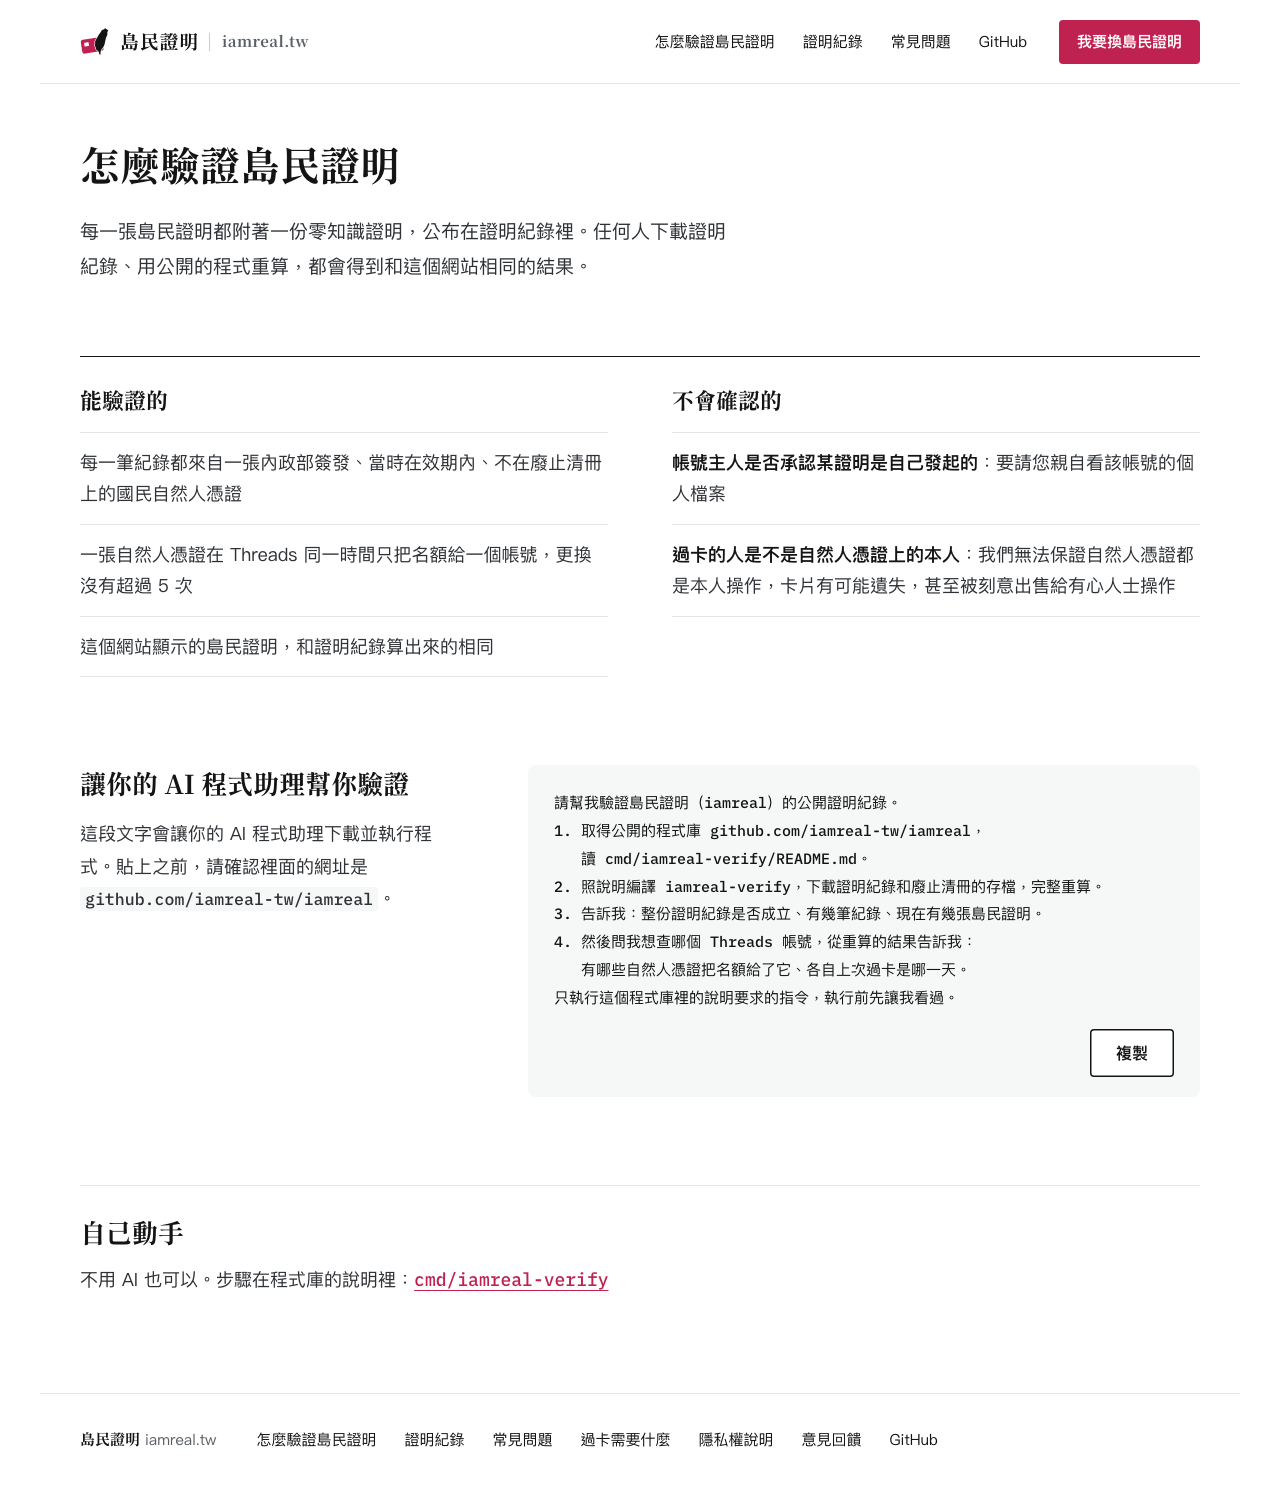
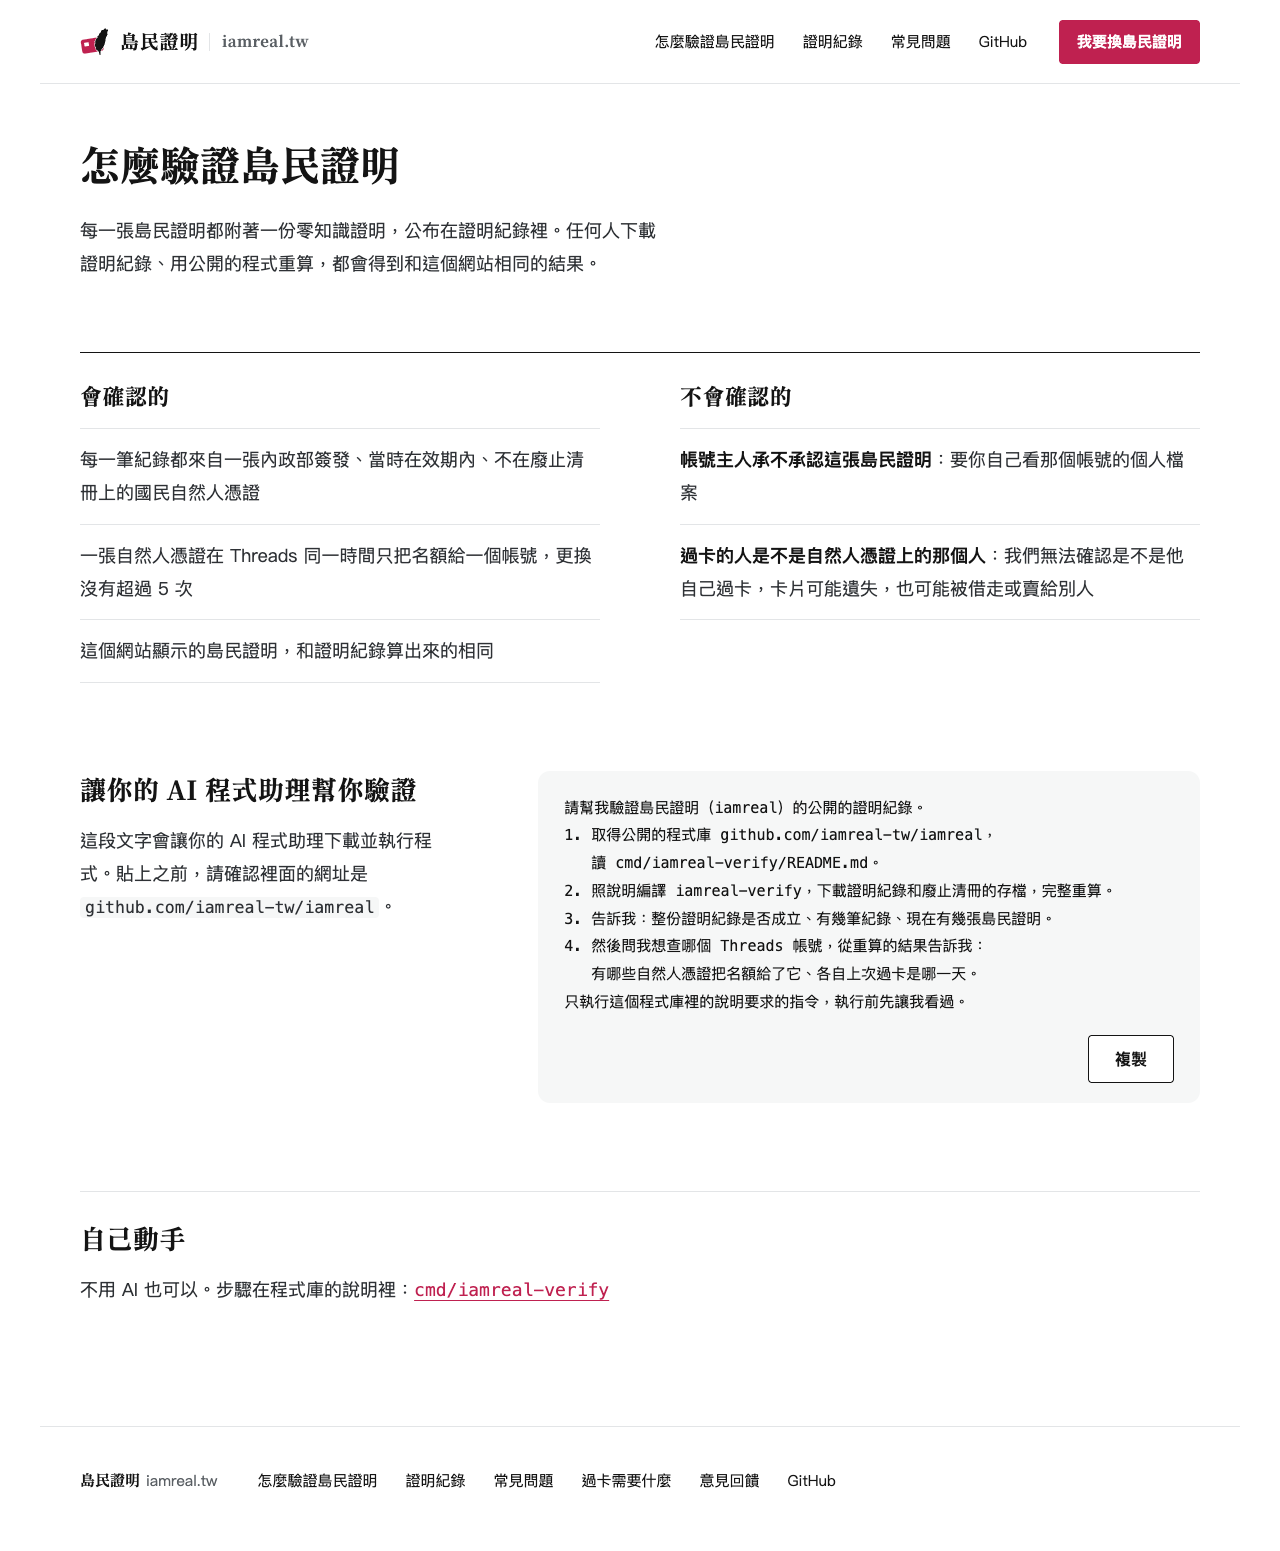
怎麼驗證島民證明照定稿：「會確認的」「不會確認的」並排，不會確認的兩條改寫（#288）
- verify.md：「不會確認的」兩條改成「帳號主人承不承認這張島民證明：要你自己看那個帳號的個人檔案」「過卡的人是不是自然人憑證上的那個人：我們無法確認是不是他自己過卡，卡片可能遺失，也可能被借走或賣給別人」；寫明寬的畫面上兩份清單並排、冒號前面是粗體。提示詞一個字都不改
- /verify 照 design/screens/ 排：兩份清單在一條墨色線下並排；AI 程式助理那一段在左、提示詞在右；複製是次要按鈕（墨色框）；自己動手在細線下。手機上全部一欄、複製按鈕撐滿寬度
- 樣式都限在 body.verify：掛上去那一頁的複製按鈕不變
- pages.css 的 SHA-256 跟著改；字型子集重跑後沒有變（新句子的字都已經在子集裡）
- verify-desktop.png、verify-phone.png 換成實際頁面的截圖

diff --git a/worker/site/pages.css b/worker/site/pages.css
@@ -5,7 +5,8 @@
  * bar and the foot are as wide as the site (--max-width); the content of
  * each page is still one column, at most 560 wide, until that page is laid
  * out after design/DESIGN.md (so far: the home page, what a card proof
- * needs, the FAQ, the page of a card and the page of an account).
+ * needs, the FAQ, how to verify, the page of a card and the page of an
+ * account).
  *
  * The values of :root are design/tokens.json's, each the one of the same
  * name (test/style-sheet.test.ts): what each colour means, and where it is
@@ -2063,15 +2064,102 @@ ul.dots li {
 
 /* How to verify (verify.md) ------------------------------------------------------------- */
 
-.prompt {
-  margin: 0 0 10px;
-  padding: 14px 16px;
+/* Laid out after design/DESIGN.md: what it checks and what it does not side by side under a line of ink; the
+   AI assistant's paragraph on the left of the prompt; doing it yourself under a thin line. */
+body.verify .title {
+  font-size: var(--size-h2);
+  line-height: var(--leading-h2);
+  margin: 56px 0 20px;
+}
+
+body.verify .intro p {
+  max-width: var(--measure);
+}
+
+body.verify .checks {
+  display: grid;
+  grid-template-columns: minmax(0, 1fr) minmax(0, 1fr);
+  gap: var(--column-gap);
+  margin-top: 72px;
+  padding-top: 28px;
+  border-top: 1px solid var(--ink);
+}
+
+body.verify .checks h2 {
+  font-family: var(--font-display);
+  font-weight: var(--weight-heading);
+  font-size: var(--size-lead);
+  line-height: var(--leading-h3);
+  margin: 0 0 14px;
+}
+
+body.verify .checks ul {
+  margin: 0;
+  padding: 0;
+  list-style: none;
+}
+
+body.verify .checks li {
+  padding: 14px 0;
+  border-bottom: 1px solid var(--line);
+}
+
+body.verify .checks li:first-child {
+  border-top: 1px solid var(--line);
+}
+
+body.verify .checks b {
+  color: var(--ink);
+}
+
+body.verify .assistant {
+  display: grid;
+  grid-template-columns: minmax(0, 4fr) minmax(0, 7fr);
+  gap: var(--column-gap);
+  align-items: start;
+  margin-top: 88px;
+}
+
+body.verify .assistant h2,
+body.verify .yourself h2 {
+  font-family: var(--font-display);
+  font-weight: var(--weight-heading);
+  font-size: var(--size-h3);
+  line-height: var(--leading-h3);
+  margin: 0 0 14px;
+}
+
+body.verify code,
+body.verify .yourself a {
+  font-family: var(--font-mono);
+}
+
+body.verify .ask code {
+  padding: 1px 5px;
+  border-radius: var(--radius);
   background: var(--soft);
-  border: 1px solid var(--line);
+  font-size: 0.92em;
+}
+
+/* The prompt: only shown here (design/DESIGN.md, --soft), no frame. */
+body.verify .prompt-box {
+  padding: 24px 26px 20px;
   border-radius: var(--radius-panel);
-  font: 14px/1.7 var(--font-mono);
+  background: var(--soft);
+}
+
+body.verify .prompt {
+  margin: 0;
+  color: var(--ink);
+  font: 15px/1.85 var(--font-mono);
   white-space: pre-wrap;
   overflow-wrap: anywhere;
+}
+
+body.verify .prompt-box .bar {
+  display: flex;
+  justify-content: flex-end;
+  margin: 18px 0 0;
 }
 
 /* A copy button (/copy.js shows it): outlined, the raspberry red. */
@@ -2084,6 +2172,29 @@ button.copy {
   color: var(--you);
   font: 700 15px var(--font-body);
   cursor: pointer;
+}
+
+/* The prompt's: a secondary button, an ink frame on white (design/DESIGN.md, 元件). */
+body.verify button.copy {
+  min-height: 48px;
+  padding: 0 26px;
+  border-color: var(--ink);
+  color: var(--ink);
+  font-size: 16px;
+}
+
+body.verify button.copy:hover {
+  background: var(--soft);
+}
+
+body.verify .yourself {
+  margin-top: 88px;
+  padding-top: 28px;
+  border-top: 1px solid var(--line);
+}
+
+body.verify .yourself p {
+  margin: 0;
 }
 
 /* Hanging a proof on a profile (hang.md) ------------------------------------------------- */
@@ -2137,6 +2248,7 @@ button.copy {
 
 /* Laid out after design/DESIGN.md: as wide as the site, its edges the navigation bar's (.top .bar); what to have and the four steps side by side, the usual troubles under them. */
 body.prepare main,
+body.verify main,
 body.proof main,
 body.account main,
 body.proof-missing main,
@@ -2614,11 +2726,55 @@ body.account-not-a-name .title {
   }
 
   body.prepare main,
+  body.verify main,
   body.proof main,
   body.account main,
   body.proof-missing main,
   body.account-not-a-name main {
     padding: 0 var(--gutter-phone) 56px;
+  }
+
+  /* How to verify: everything one column; the copy button as wide as the prompt. */
+  body.verify .title {
+    font-size: var(--size-h2-phone);
+    margin-top: 28px;
+  }
+
+  body.verify .checks {
+    grid-template-columns: minmax(0, 1fr);
+    gap: 40px;
+    margin-top: 48px;
+  }
+
+  body.verify .checks h2 {
+    font-size: var(--size-lead-phone);
+  }
+
+  body.verify .assistant {
+    grid-template-columns: minmax(0, 1fr);
+    gap: 20px;
+    margin-top: 56px;
+  }
+
+  body.verify .assistant h2,
+  body.verify .yourself h2 {
+    font-size: var(--size-h3-phone);
+  }
+
+  body.verify .prompt-box {
+    padding: 18px 16px 16px;
+  }
+
+  body.verify .prompt {
+    font-size: 14px;
+  }
+
+  body.verify button.copy {
+    width: 100%;
+  }
+
+  body.verify .yourself {
+    margin-top: 56px;
   }
 
   body.prepare .title {

diff --git a/worker/src/pages/verify.ts b/worker/src/pages/verify.ts
@@ -1,8 +1,8 @@
-// How to verify: design/copy/verify.md. The markup is the Go backend's
-// (e159ab9:server/pages/templates/verify.html). The prompt is written exactly as
-// verify.md has it, in a <pre> that can be selected; the copy buttons'
-// script (/copy.js) shows the button that copies it, hidden without the
-// script.
+// How to verify: design/copy/verify.md. What it checks and what it does
+// not, side by side on a wide screen; the AI assistant's paragraph beside
+// the prompt. The prompt is written exactly as verify.md has it, in a <pre>
+// that can be selected; the copy buttons' script (/copy.js) shows the
+// button that copies it, hidden without the script.
 import { html } from "./html.ts";
 import type { Document } from "./layout.ts";
 
@@ -12,21 +12,28 @@ export function verifyPage(): Document {
 <p>每一張島民證明都附著一份零知識證明，公布在證明紀錄裡。任何人下載證明紀錄、用公開的程式重算，都會得到和這個網站相同的結果。</p>
 </section>
 <section class="checks">
+<div class="will">
 <h2>會確認的</h2>
-<ul class="dots">
+<ul>
 <li>每一筆紀錄都來自一張內政部簽發、當時在效期內、不在廢止清冊上的國民自然人憑證</li>
 <li>一張自然人憑證在 Threads 同一時間只把名額給一個帳號，更換沒有超過 5 次</li>
 <li>這個網站顯示的島民證明，和證明紀錄算出來的相同</li>
 </ul>
+</div>
+<div class="wont">
 <h2>不會確認的</h2>
-<ul class="dots">
-<li>帳號主人承不承認：要看那個帳號的個人檔案</li>
-<li>過卡的人是不是自然人憑證上的那個人</li>
+<ul>
+<li><b>帳號主人承不承認這張島民證明</b>：要你自己看那個帳號的個人檔案</li>
+<li><b>過卡的人是不是自然人憑證上的那個人</b>：我們無法確認是不是他自己過卡，卡片可能遺失，也可能被借走或賣給別人</li>
 </ul>
+</div>
 </section>
 <section class="assistant">
+<div class="ask">
 <h2>讓你的 AI 程式助理幫你驗證</h2>
-<p>這段文字會讓你的 AI 程式助理下載並執行程式。貼上之前，請確認裡面的網址是 github.com/iamreal-tw/iamreal。</p>
+<p>這段文字會讓你的 AI 程式助理下載並執行程式。貼上之前，請確認裡面的網址是 <code>github.com/iamreal-tw/iamreal</code>。</p>
+</div>
+<div class="prompt-box">
 <pre class="prompt" id="prompt">請幫我驗證島民證明（iamreal）的公開的證明紀錄。
 1. 取得公開的程式庫 github.com/iamreal-tw/iamreal，
    讀 cmd/iamreal-verify/README.md。
@@ -35,7 +42,8 @@ export function verifyPage(): Document {
 4. 然後問我想查哪個 Threads 帳號，從重算的結果告訴我：
    有哪些自然人憑證把名額給了它、各自上次過卡是哪一天。
 只執行這個程式庫裡的說明要求的指令，執行前先讓我看過。</pre>
-<p><button type="button" class="copy" data-copy="prompt" data-copied="已複製" hidden>複製</button></p>
+<p class="bar"><button type="button" class="copy" data-copy="prompt" data-copied="已複製" hidden>複製</button></p>
+</div>
 </section>
 <section class="yourself">
 <h2>自己動手</h2>

diff --git a/worker/scripts/site-files.ts b/worker/scripts/site-files.ts
@@ -64,7 +64,7 @@ export const SITE_FILES: readonly string[] = ["_headers", "_redirects", "copy.js
  * written here: a deploy uploads the style sheet that was reviewed. Change
  * it with the file (`shasum -a 256 site/pages.css`).
  */
[2 lines of base64/hex data omitted]
 
 /**
  * The SHA-256 of site/copy.js, the copy buttons' script, the other file of

diff --git a/design/copy/verify.md b/design/copy/verify.md
@@ -26,11 +26,11 @@
 · 這個網站顯示的島民證明，和證明紀錄算出來的相同
 
 不會確認的
-· 帳號主人承不承認：要看那個帳號的個人檔案
-· 過卡的人是不是自然人憑證上的那個人
+· 帳號主人承不承認這張島民證明：要你自己看那個帳號的個人檔案
+· 過卡的人是不是自然人憑證上的那個人：我們無法確認是不是他自己過卡，卡片可能遺失，也可能被借走或賣給別人
 ```
 
-兩份清單，各有一個小標。
+兩份清單，各有一個小標，寬的畫面上左右並排。「不會確認的」每一條，冒號前面是粗體。
 
 「不會確認的」一定要有：重驗確認的是證明和紀錄規則，不確認帳號主人承不承認（ADR-0003），也不確認簽章的人是不是自然人憑證上的那個人。
 

diff --git a/design/screens/README.md b/design/screens/README.md
@@ -36,7 +36,7 @@
 | `hang-proof-desktop.png`、`hang-proof-phone.png` | `/hang/7K2Q9FM4XD`（掛上去，從一張島民證明來） | 定稿版 |
 | `hang-desktop.png`、`hang-phone.png` | `/hang`（掛上去，沒有指定哪一張） | 定稿版 |
 | `proof-log-desktop.png`、`proof-log-phone.png` | `/proof-log` | 定稿版 |
-| `verify-desktop.png`、`verify-phone.png` | `/verify` | 定稿版 |
+| `verify-desktop.png`、`verify-phone.png` | `/verify` | 實作版 |
 | `faq-desktop.png`、`faq-phone.png` | `/faq` | 實作版 |
 | `prepare-desktop.png`、`prepare-phone.png` | `/prepare`（過卡需要什麼） | 實作版 |
 | `og-image.png` | 每一頁的連結預覽圖（`og:image`） | 定稿版 |
